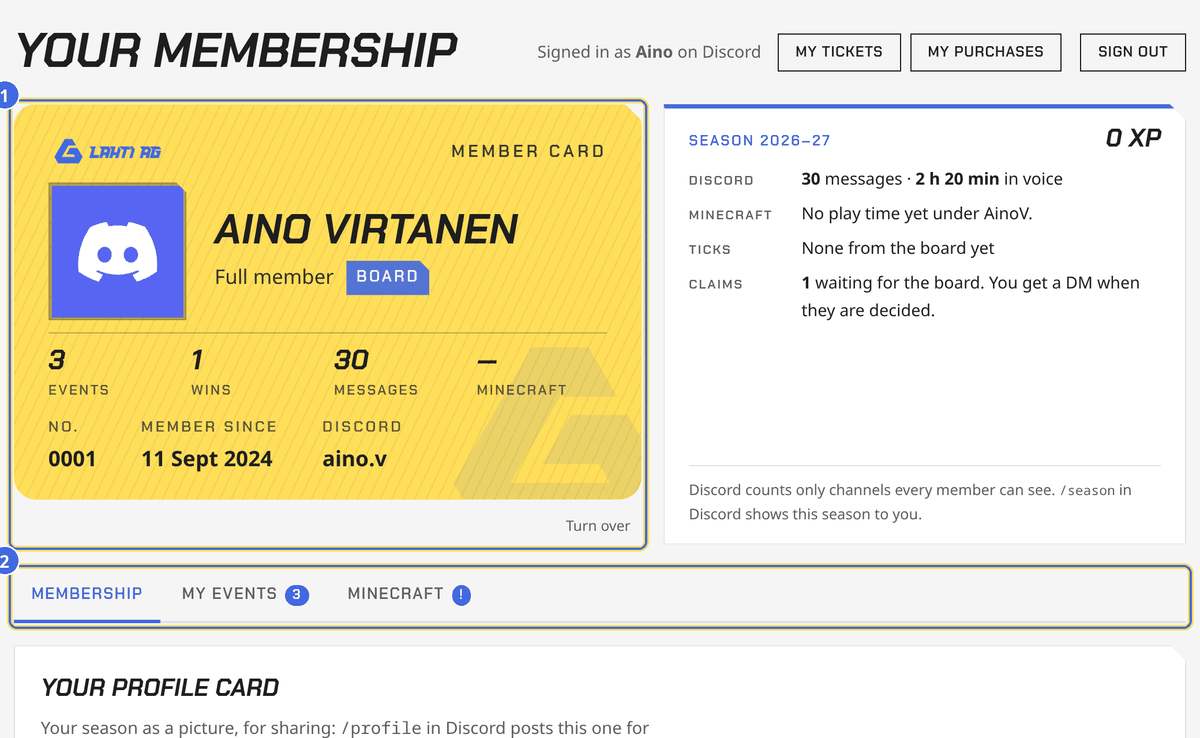
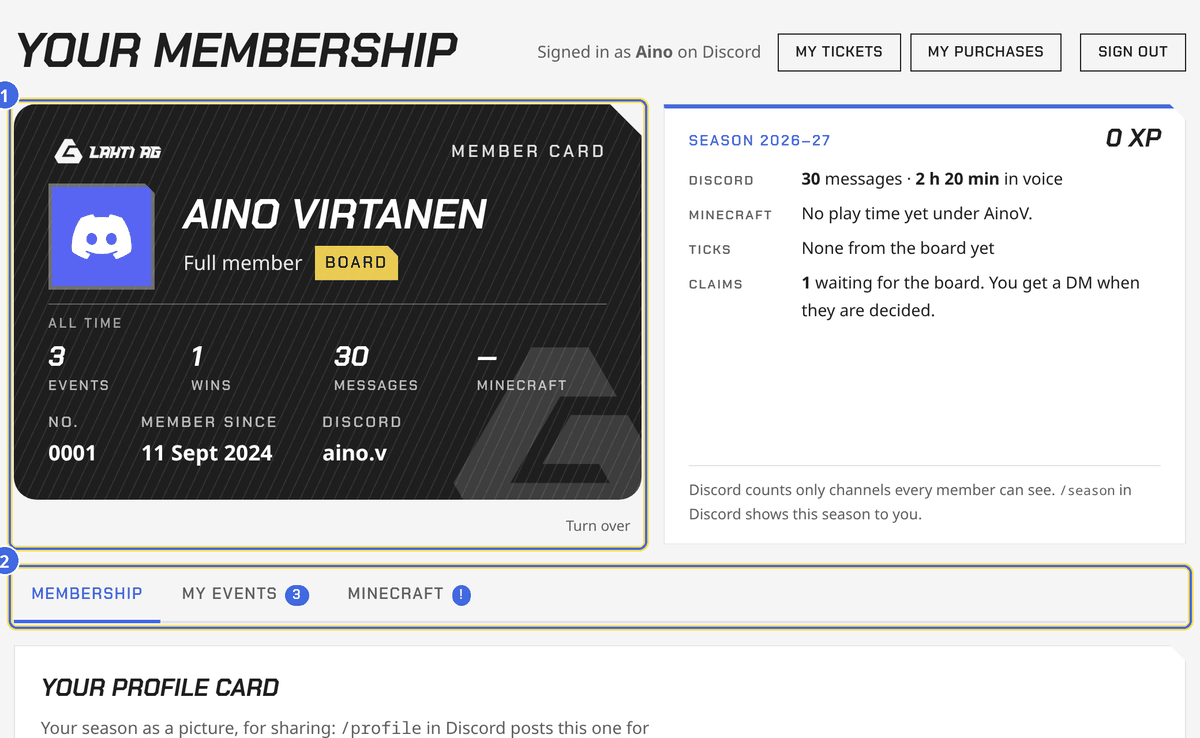
Swap the actives and board stocks, and fix the corners
Yellow is the actives now and ink is the board, which puts the standout
colour on the larger group and the rarest stock on the smallest.

The bottom corners were only clean at rest. On hover the shadow pooled in
them: clip-path is applied after the background's rounding and after any
filter, so its square corners kept whatever the rounding had emptied —
box-shadow and drop-shadow alike. The shadow is now its own element behind
the card, at the card's size, which nothing clips.

The notch was a fixed 14px however the card redeclared --notch, because
--cut resolves its var() back on :root; the polygon is written out on the
card now, so the notch scales with it. Turned over, it sits on the left,
where a real card's cut corner ends up.

The figures say All time, since a number without its span is a number
nobody can read.

Claude-Session: https://claude.ai/code/session_019m4NkzFyEy3cwdh3cuTmAt

Changed region(s): [[0.0, 0.1247, 0.555, 0.6856]]

diff --git a/src/styles/site.css b/src/styles/site.css
@@ -668,6 +668,7 @@ a:hover {
    Four stocks, set by the tokens below: blue for a member, ink for an
    active, yellow for the board, pale for a card not issued yet. */
 .id-card {
+  position: relative;
   container-type: inline-size;
   perspective: 1100px;
   align-self: start;
@@ -692,11 +693,6 @@ a:hover {
 }
 
 .id-tier-active {
-  --card-bg: var(--ink);
-  --card-shadow: rgba(30, 30, 30, 0.5);
-}
-
-.id-tier-board {
   --card-bg: var(--yellow);
   --card-ink: var(--ink);
   --card-rule: rgba(30, 30, 30, 0.28);
@@ -711,6 +707,11 @@ a:hover {
   --card-panel: rgba(255, 255, 255, 0.75);
   --card-stripe: var(--ink);
   --card-shadow: rgba(30, 30, 30, 0.4);
+}
+
+.id-tier-board {
+  --card-bg: var(--ink);
+  --card-shadow: rgba(30, 30, 30, 0.5);
 }
 
 /* Pale stock: an application still in the queue, or a membership that has
@@ -731,6 +732,34 @@ a:hover {
   --card-stripe: var(--line);
   --card-shadow: rgba(30, 30, 30, 0.2);
   --card-edge: 1px dashed var(--line);
+}
+
+/* The shadow is its own element, sitting behind the card at exactly the
+   card's size. It cannot go on the face: clip-path is applied after filter
+   and after the background's rounding, so either shape of shadow ends up
+   pooled in the square corners the rounding had emptied. */
+.id-card-shade {
+  position: absolute;
+  left: 0;
+  right: 0;
+  top: 0;
+  z-index: -1;
+  aspect-ratio: 1.586;
+  border-radius: 3.6cqi;
+  background: var(--card-shadow);
+  filter: blur(13px);
+  opacity: 0;
+  transform: translateY(4px) scale(0.97);
+  transition:
+    opacity 260ms ease,
+    transform 260ms ease;
+  pointer-events: none;
+}
+
+.id-card:hover .id-card-shade,
+.id-card:focus-within .id-card-shade {
+  opacity: 0.5;
+  transform: translateY(11px) scale(0.96);
 }
 
 /* Two wrappers, because the two movements want different speeds: the lean
@@ -759,27 +788,30 @@ a:hover {
   display: grid;
   grid-template-columns: auto minmax(0, 1fr);
   grid-template-rows: auto 1fr auto auto;
-  gap: 2cqi 4.5cqi;
+  gap: 1.8cqi 4.5cqi;
   aspect-ratio: 1.586; /* ID-1, the size of a bank card */
   padding: 4.5cqi 5.5cqi;
   background: var(--card-bg);
   color: var(--card-ink);
   border: var(--card-edge);
   /* Rounded like a real card, with the brand's one notch cut out of the
-     top-right corner. The notch is redeclared in the card's own units so
-     it grows with the card instead of sitting at a fixed 14px. */
+     top-right corner. The polygon is written out rather than taken from
+     --cut, because --cut resolves its --notch back on :root and would come
+     out a fixed 14px however the card redeclares it. */
   --notch: 5cqi;
   border-radius: 3.6cqi;
-  clip-path: var(--cut);
+  clip-path: polygon(0 0, calc(100% - var(--notch)) 0, 100% var(--notch), 100% 100%, 0 100%);
   overflow: hidden;
   backface-visibility: hidden;
-  transition: box-shadow 260ms ease;
 }
 
-/* The back sits on the same spot, already turned, so the flip reveals it. */
+/* The back sits on the same spot, already turned, so the flip reveals it.
+   Turned over, a card's cut corner is on the other side, so the notch is
+   mirrored here. */
 .id-card-back {
   position: absolute;
   inset: 0;
+  clip-path: polygon(var(--notch) 0, 100% 0, 100% 100%, 0 100%, 0 var(--notch));
   display: flex;
   flex-direction: column;
   gap: 1.8cqi;
@@ -810,11 +842,6 @@ a:hover {
 .id-card:hover .id-card-tilt,
 .id-card:focus-within .id-card-tilt {
   --lift: -3px;
-}
-
-.id-card:hover .id-card-face,
-.id-card:focus-within .id-card-face {
-  box-shadow: 0 18px 34px -18px var(--card-shadow);
 }
 
 .id-card:hover .id-card-face::after {
@@ -848,7 +875,7 @@ a:hover {
   pointer-events: none;
 }
 
-.id-tier-board .id-card-mark,
+.id-tier-active .id-card-mark,
 .id-tier-pale .id-card-mark {
   opacity: 0.1;
 }
@@ -907,8 +934,8 @@ a:hover {
 
 .id-card-photo img {
   display: block;
-  width: 22cqi;
-  height: 22cqi;
+  width: 17cqi;
+  height: 17cqi;
   object-fit: cover;
   background: rgba(127, 127, 127, 0.2);
   border: 0.6cqi solid var(--card-rule);
@@ -960,17 +987,33 @@ a:hover {
   opacity: 1;
 }
 
-/* The whole record, not one season: what makes the card worth showing. */
+/* The whole record, not one season: what makes the card worth showing.
+   Said out loud, because a number without its span is a number nobody can
+   read. */
 .id-card-figures {
   grid-column: 1 / -1;
   grid-row: 3;
+  padding: 1.5cqi 0 0;
+  border-top: 1px solid var(--card-rule);
+}
+
+.id-card-figures-head {
+  margin: 0 0 1.1cqi;
+  font-family: var(--display);
+  font-weight: 600;
+  font-size: 2.1cqi;
+  letter-spacing: 0.18em;
+  text-transform: uppercase;
+  opacity: 0.6;
+}
+
+.id-card-figures ul {
   margin: 0;
-  padding: 2cqi 0 0;
+  padding: 0;
   list-style: none;
   display: grid;
   grid-template-columns: repeat(4, minmax(0, 1fr));
   gap: 2cqi;
-  border-top: 1px solid var(--card-rule);
 }
 
 .id-card-figures li {
@@ -1138,6 +1181,11 @@ a:hover {
    figures two by two. A container query, so it follows the card's own
    width rather than the window's. */
 @container (max-width: 26rem) {
+  .id-card-shade {
+    aspect-ratio: 0.631;
+    border-radius: 5cqi;
+  }
+
   .id-card-face {
     aspect-ratio: 0.631;
     grid-template-columns: minmax(0, 1fr);
@@ -1202,9 +1250,16 @@ a:hover {
   .id-card-figures {
     grid-column: 1;
     grid-row: 4;
+    padding-top: 4cqi;
+  }
+
+  .id-card-figures-head {
+    font-size: 3cqi;
+  }
+
+  .id-card-figures ul {
     grid-template-columns: repeat(2, minmax(0, 1fr));
     gap: 3.5cqi 4cqi;
-    padding-top: 4cqi;
   }
 
   .id-card-figure {

diff --git a/docs/BOARD-GUIDE.md b/docs/BOARD-GUIDE.md
@@ -127,8 +127,8 @@ the bottom right lets you view a page as a member or a visitor would.
 
 ![The membership card](images/site/membership-card.png)
 
-*The card itself. The stock says which they are — blue a member, ink an
-active, yellow the board — and it turns over for the rest of the record.
+*The card itself. The stock says which they are — blue a member, yellow an
+active, ink the board — and it turns over for the rest of the record.
 An application still waiting shows the same card in pale stock, which is
 the clearest way to say the board has not decided yet.*
 

diff --git a/docs/OPERATIONS.md b/docs/OPERATIONS.md
@@ -234,7 +234,7 @@ included.
 card (`src/components/MemberCard.astro`): name, number (the register id),
 class, member since, and four figures from the whole record, not one season
 (`lifetimeTotals` in `src/lib/season.ts`). The stock is the tier — blue a
-member, ink an active, yellow the board, pale for an application still in
+member, yellow an active, ink the board, pale for an application still in
 the queue or a membership that has ended. It turns over for the rest. All of
 it is CSS in `site.css`; nothing is rendered to an image, so it costs no
 worker time.
